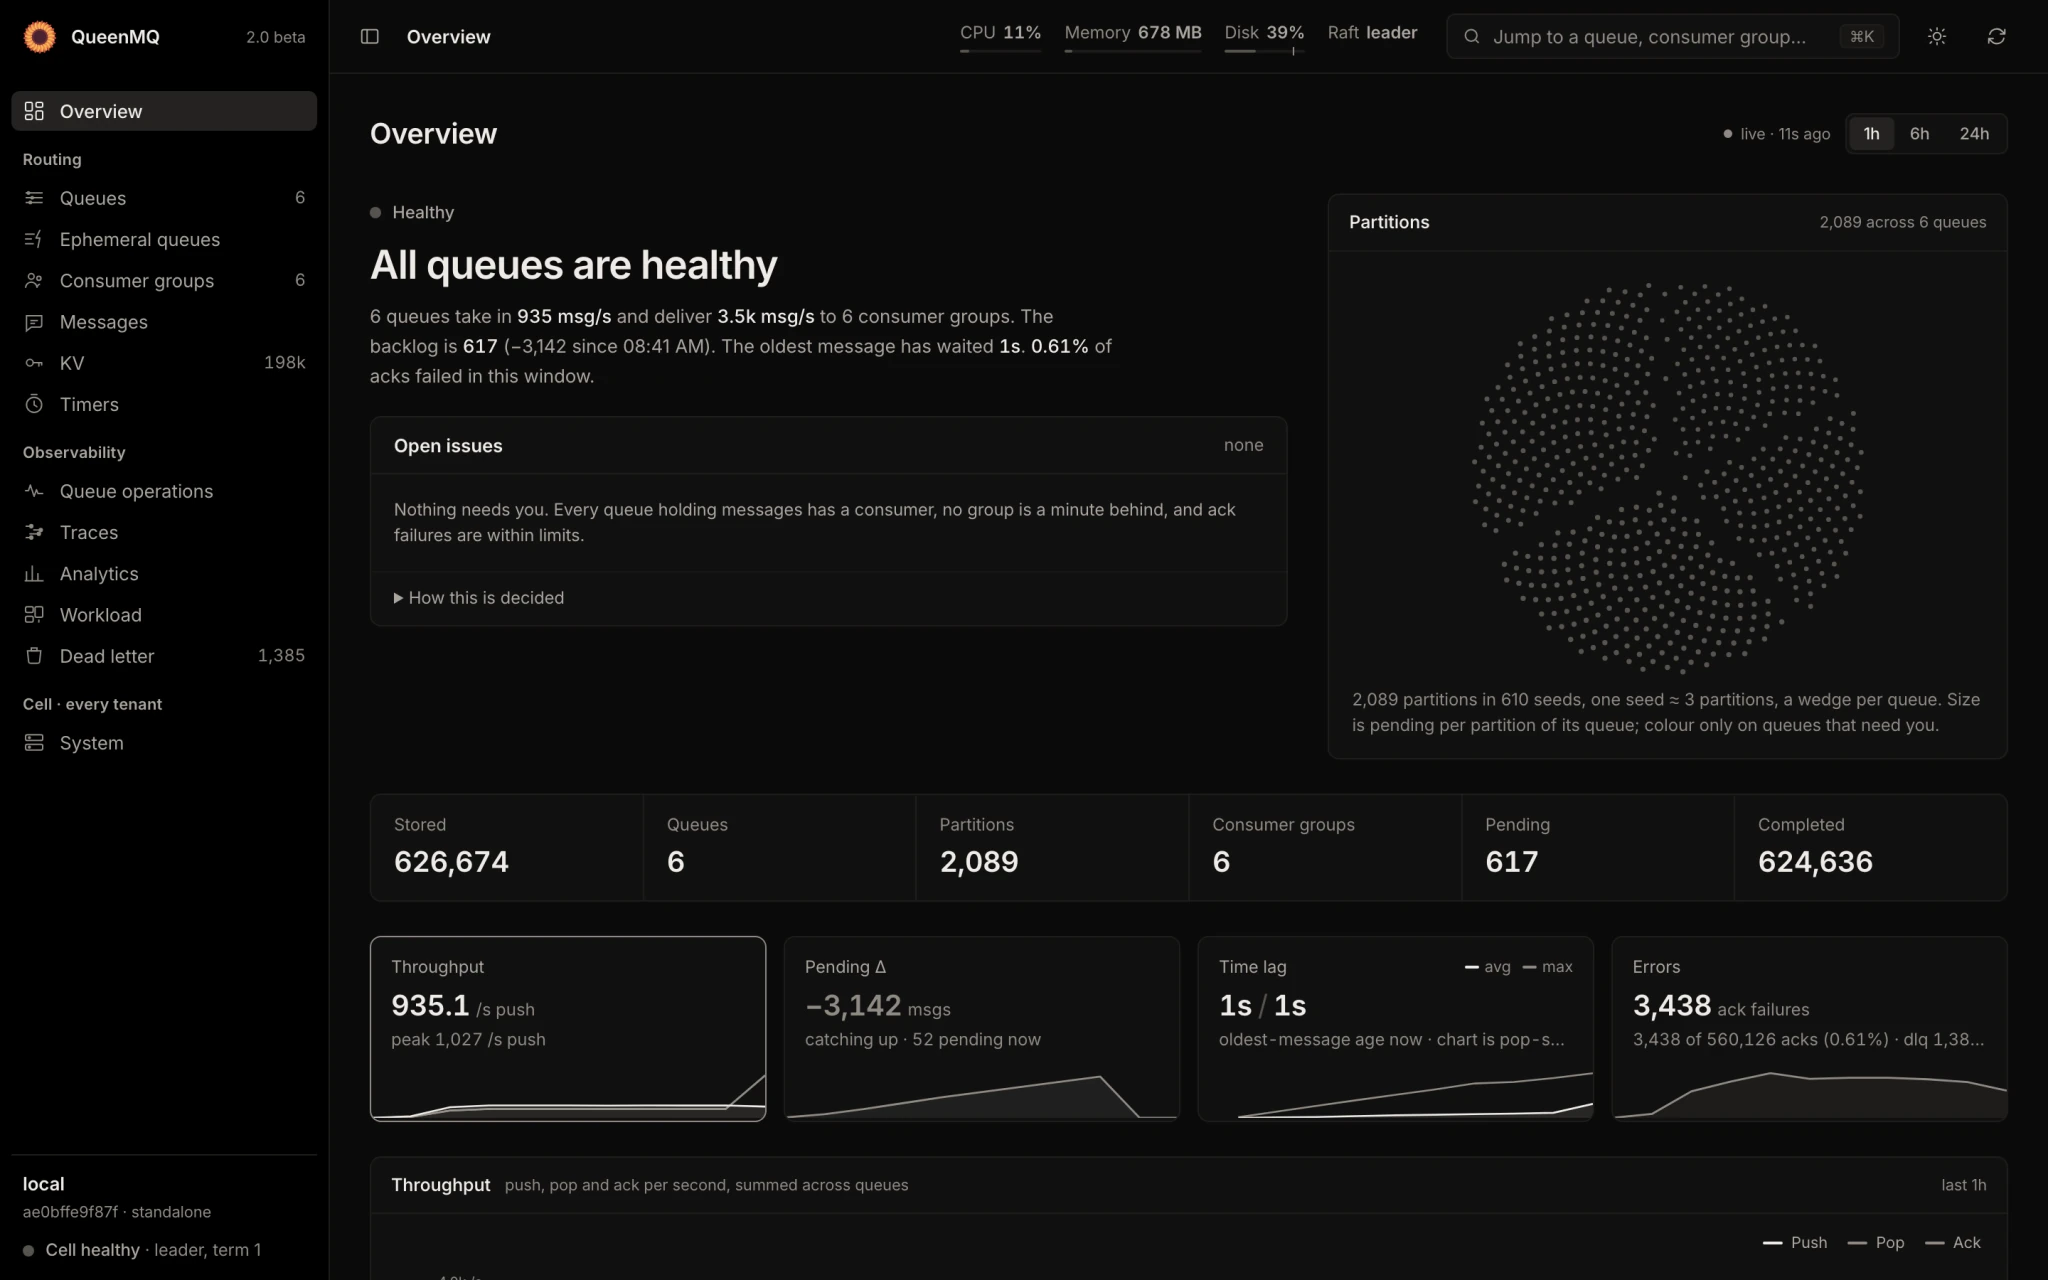
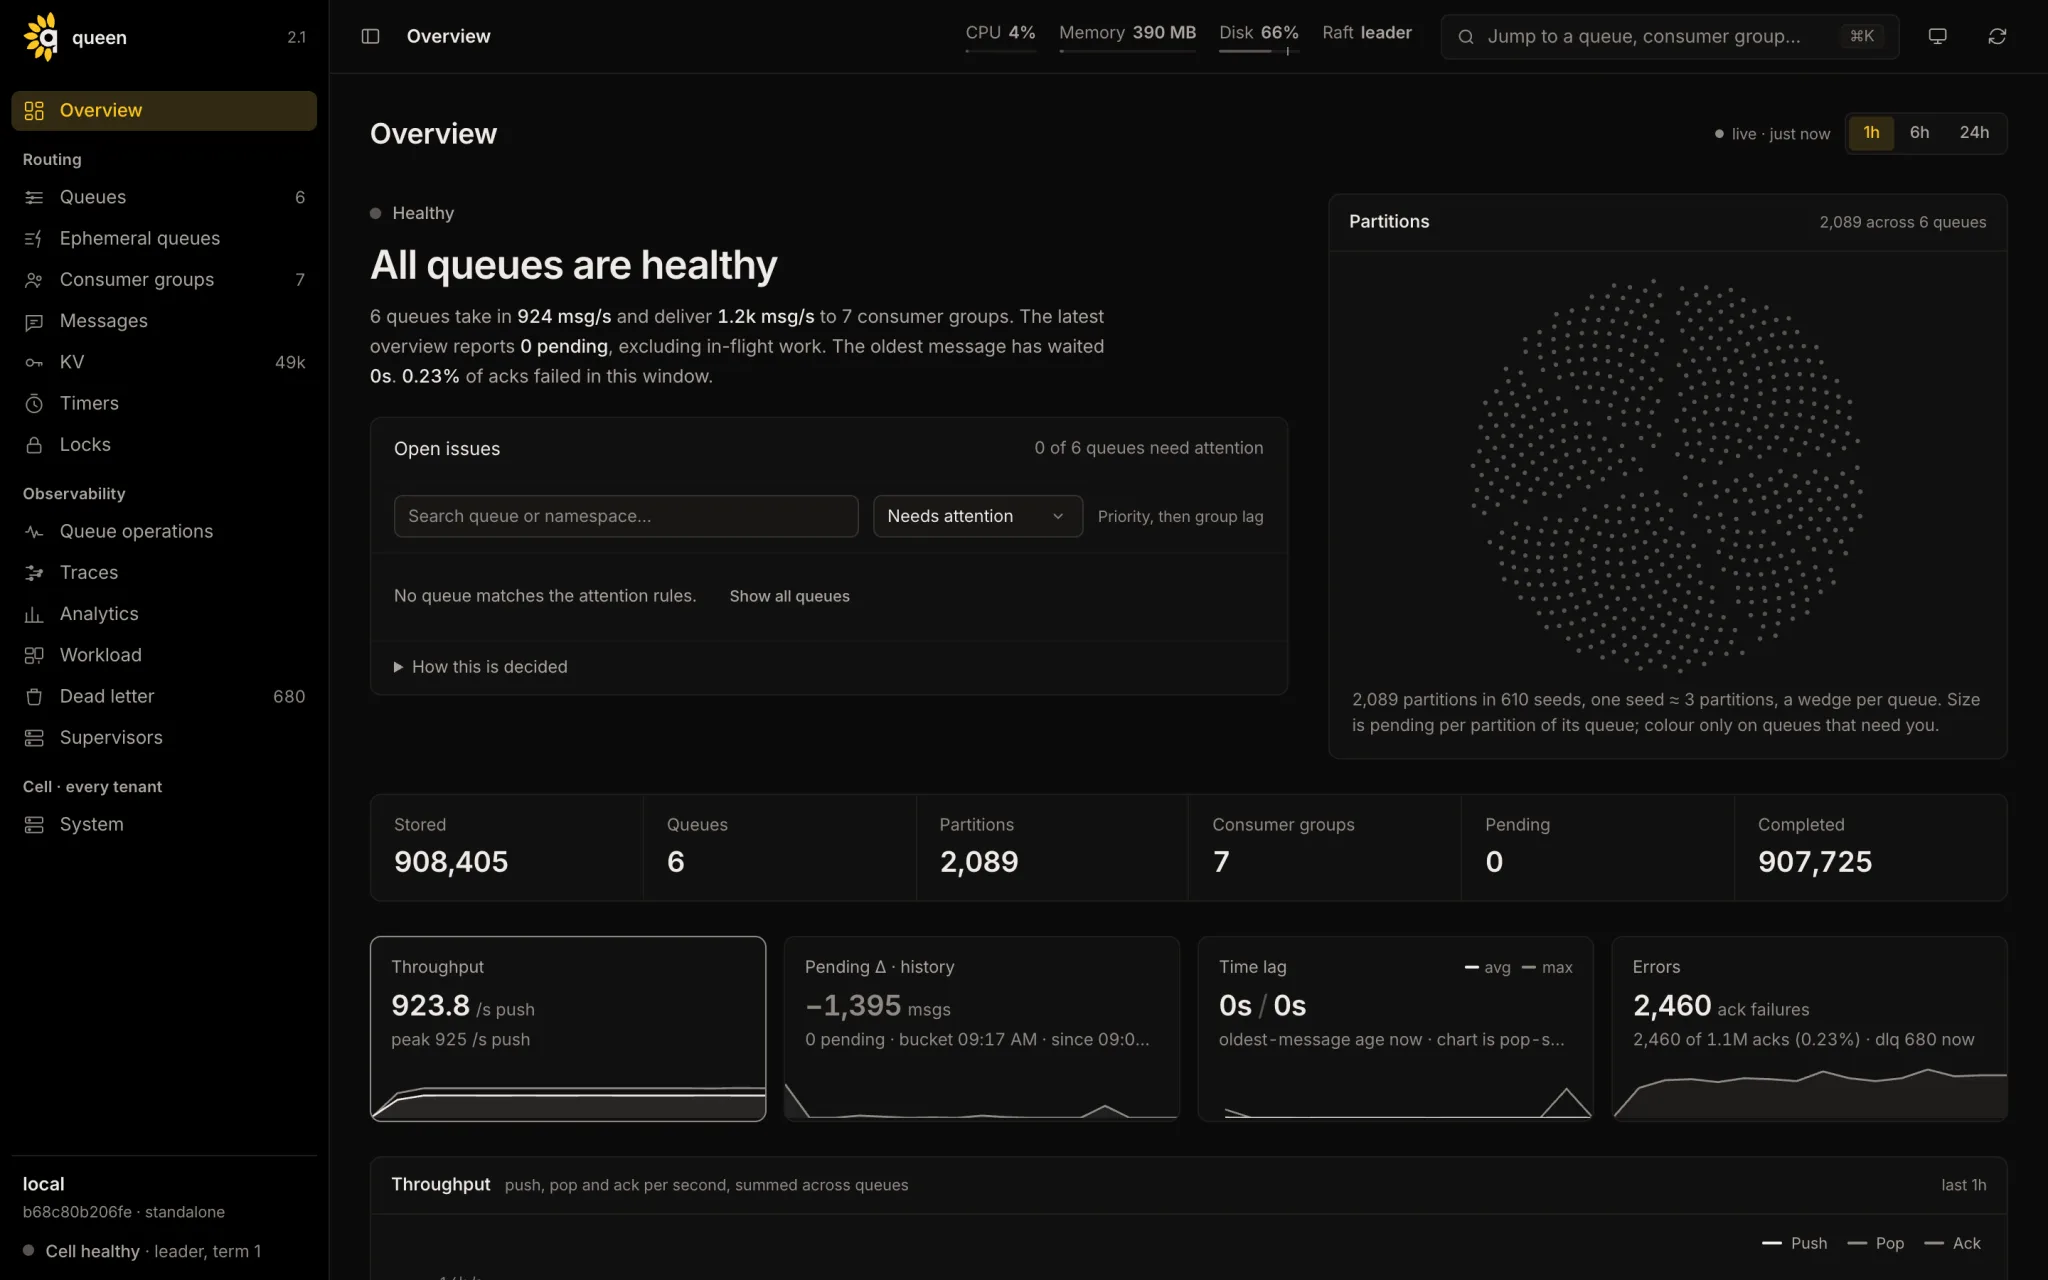
docs: the homepage shows the 2.1 dashboard
The screenshot was of a 2.0 beta dashboard with the old logo. The new
one is the Overview of a local 2.1.0 broker under synthetic load: 6
queues, 2,089 partitions, 7 consumer groups, 924 messages a second, with
Locks and Supervisors in the sidebar. Same frame and format (2048x1280
WebP, one per theme), and the image description says what is on it.

diff --git a/webdoc/src/lib/home.ts b/webdoc/src/lib/home.ts
@@ -211,8 +211,8 @@ export const dashboardSection = {
   image: "dashboard-overview",
   alt:
     "The dashboard's overview of a broker under load: messages pushed and consumed per second, " +
-    "queues, partitions and consumer groups, the backlog and its trend, and per-queue rows with " +
-    "throughput and lag.",
+    "queues, partitions and consumer groups, the backlog and its trend, the partitions drawn as a " +
+    "sunflower, and tiles for throughput, lag and errors.",
 };
 
 export const proofSection = {
